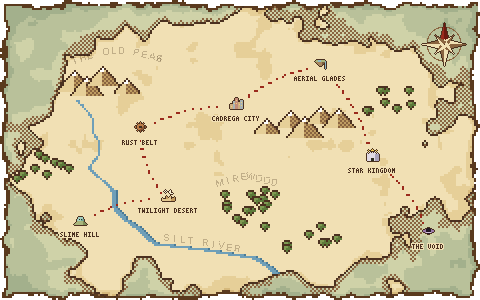
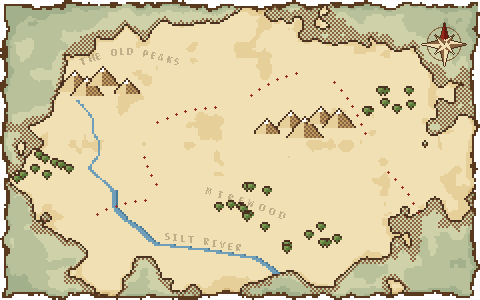
World map: unseen areas show just a ? on the open map (no fog)
The base map no longer has the landmarks or names; each area's
landmark + name is its own overlay (world_map_area_<i>.png) added only
for areas the player can see. Areas past the one ahead show an ink ?
with a paper halo. The route is drawn as even dots; the cache key
covers every world_map* asset.

diff --git a/cococap/map_runtime.py b/cococap/map_runtime.py
@@ -1,7 +1,7 @@
 """Runtime world map for the Travel page (pure Python + Pillow; no discord, no art/ imports).
 
 Reads cococap/assets/world_map.png and world_map.json (one site per area, in registry order). Areas up to the
-highest one reached are shown, the area ahead of it is revealed too, and everything beyond is fogged. A red X
+highest one reached are shown, the area ahead of it is revealed too, and everything beyond shows only a ? on the open map. A red X
 marks where the player is now.
 """
 import io
@@ -11,11 +11,10 @@ from pathlib import Path
 from PIL import Image
 
 _ASSETS = Path(__file__).resolve().parent / "assets"
-_FOG_IN = (0xE6, 0xCF, 0x98, 255)
-_FOG_EDGE = (0xD6, 0xB9, 0x7C, 255)
+_PAPER = (0xF1, 0xE0, 0xB4, 255)
 _INK = (0x4B, 0x31, 0x20, 255)
 _RED = (0xE8, 0x28, 0x1C, 255)
-_QUESTION = ["ooo", "..o", ".o.", "...", ".o."]  # stamped centred on the site
+_QUESTION = [".hhhhh.", "hoooooh", "hohhhoh", "hhh.hoh", ".hhooh.", "..hoh..", "..hhh..", "..hoh..", "..hhh.."]  # an ink ? with a paper halo
 _X = [
     "oo...oo",
     "oRo.oRo",
@@ -27,17 +26,15 @@ _X = [
 ]  # the "you are here" mark, top-left at (site x + 4, site y - 14)
 _BASE: Image.Image | None = None
 _SITES: list[tuple[int, int]] | None = None
-_FOG: tuple[float, float] = (0.0, 0.0)  # fog ellipse radii (rx, ry), from world_map.json
 _UNIT = 1  # map pixels per drawing pixel: the base map is drawn at a finer grid; marks are stamped in unit-sized blocks
 
 
 def _load() -> None:
-    global _BASE, _SITES, _FOG, _UNIT
+    global _BASE, _SITES, _UNIT
     if _BASE is None:
         _BASE = Image.open(_ASSETS / "world_map.png").convert("RGBA")
         data = json.loads((_ASSETS / "world_map.json").read_text(encoding="utf-8"))
         _SITES = [(int(x), int(y)) for x, y in data["sites"]]
-        _FOG = (float(data["fog"][0]), float(data["fog"][1]))
         _UNIT = int(data.get("unit", 1))
 
 
@@ -54,27 +51,27 @@ def _stamp(img: Image.Image, left: int, top: int, rows: list[str], pal: dict[str
                         img.putpixel((x, y), pal[ch])
 
 
-def _fog(img: Image.Image, sx: int, sy: int) -> None:
-    """A soft parchment ellipse covering the landmark and its name label (6 px below the site): solid inside,
-    checkerboard dither at the edge. The ink "?" sits at the centre."""
-    rx, ry = _FOG
+def _unknown(img: Image.Image, sx: int, sy: int) -> None:
+    """An area the player cannot see yet: the open map with just a ? where its landmark will be."""
     u = _UNIT
-    cx, cy = sx, sy + 6 * u
-    for y in range(max(0, cy - int(ry) - 1), min(img.height, cy + int(ry) + 2)):
-        for x in range(max(0, cx - int(rx) - 1), min(img.width, cx + int(rx) + 2)):
-            d = ((x - cx) / rx) ** 2 + ((y - cy) / ry) ** 2
-            if d <= 0.6:
-                img.putpixel((x, y), _FOG_IN)
-            elif d <= 1.0 and (x // u + y // u) % 2 == 0:
-                img.putpixel((x, y), _FOG_EDGE)
-    _stamp(img, cx - 1 * u, cy - 2 * u, _QUESTION, {"o": _INK})
+    _stamp(img, sx - 3 * u, sy - 10 * u, _QUESTION, {"o": _INK, "h": _PAPER})
+
+
+_OVERLAYS: list[Image.Image] = []
+
+
+def _overlay(i: int) -> Image.Image:
+    """Area i's landmark and name (a transparent layer the size of the map), loaded once."""
+    while len(_OVERLAYS) <= i:
+        _OVERLAYS.append(Image.open(_ASSETS / f"world_map_area_{len(_OVERLAYS)}.png").convert("RGBA"))
+    return _OVERLAYS[i]
 
 
 def _art_version() -> str:
     """A short fingerprint of the map art, so a redrawn map never serves stale cached images."""
     import zlib
 
-    return f"{zlib.crc32(_ASSETS.joinpath('world_map.png').read_bytes() + _ASSETS.joinpath('world_map.json').read_bytes()):08x}"
+    return f"{zlib.crc32(b''.join(f.read_bytes() for f in sorted(_ASSETS.glob('world_map*')))):08x}"
 
 
 def render_map(
@@ -101,8 +98,11 @@ def render_map(
             return path.read_bytes()
 
     img = _BASE.copy()
-    for i in range(revealed, count):
-        _fog(img, *_SITES[i])
+    for i in range(count):
+        if i < revealed:
+            img.alpha_composite(_overlay(i))
+        else:
+            _unknown(img, *_SITES[i])
     cx, cy = _SITES[current]
     _stamp(img, cx + 4 * _UNIT, cy - 14 * _UNIT, _X, {"o": _INK, "R": _RED})
     img = img.resize((img.width * scale, img.height * scale), Image.NEAREST)

diff --git a/tests/test_world_map.py b/tests/test_world_map.py
@@ -1,4 +1,4 @@
-"""The Travel page's world map: rendered per player, fogged past the area ahead, X where you are."""
+"""The Travel page's world map: rendered per player; areas past the one ahead show only a ?; X where you are."""
 import io
 import json
 
@@ -13,20 +13,13 @@ DATA = json.loads((map_runtime._ASSETS / "world_map.json").read_text(encoding="u
 W, H = DATA["size"]
 SITES = [tuple(s) for s in DATA["sites"]]
 UNIT = DATA.get("unit", 1)  # map pixels per drawing pixel
-RX, RY = DATA["fog"]
-FOG = {(0xE6, 0xCF, 0x98, 255), (0xD6, 0xB9, 0x7C, 255)}
+INK = (0x4B, 0x31, 0x20, 255)
 RED = (0xE8, 0x28, 0x1C, 255)
 SCALE = 2
 
 
 def _image(png: bytes) -> Image.Image:
     return Image.open(io.BytesIO(png)).convert("RGBA")
-
-
-def _inside_fog(site: tuple[int, int]) -> tuple[int, int]:
-    """A pixel inside the fog ellipse, clear of the ink "?" in its centre."""
-    sx, sy = site
-    return sx - RX // 2, sy + 6
 
 
 def test_render_is_a_png_at_scaled_size():
@@ -48,14 +41,28 @@ def test_x_marks_the_current_area():
     assert RED in near
 
 
-def test_areas_past_the_one_ahead_are_fogged():
-    # highest = 1: areas 0..1 are reached, area 2 is the one ahead (revealed), area 3 is fogged.
+BASE = Image.open(map_runtime._ASSETS / "world_map.png").convert("RGBA")
+
+
+def _shown(im, layer, scale):
+    """(pixels of a landmark layer that show in the render, pixels it would change on the bare map)."""
+    changes = [(x, y) for y in range(layer.height) for x in range(layer.width)
+               if layer.getpixel((x, y))[3] and BASE.getpixel((x, y)) != layer.getpixel((x, y))]
+    return sum(1 for x, y in changes if im.getpixel((x * scale, y * scale)) == layer.getpixel((x, y))), len(changes)
+
+
+def test_areas_past_the_one_ahead_show_only_a_question_mark():
+    # highest = 1: areas 0..1 are reached, area 2 is the one ahead (its landmark shows), area 3 is unknown (just a ?).
     im = _image(render_map(1, 1, scale=SCALE, cache_dir=None))
-    base = Image.open(map_runtime._ASSETS / "world_map.png").convert("RGBA")
-    ahead = _inside_fog(SITES[2])
-    beyond = _inside_fog(SITES[3])
-    assert im.getpixel((beyond[0] * SCALE, beyond[1] * SCALE)) in FOG
-    assert im.getpixel((ahead[0] * SCALE, ahead[1] * SCALE)) == base.getpixel(ahead)
+    ahead = map_runtime._overlay(2)
+    beyond = map_runtime._overlay(3)
+    shown, total = _shown(im, ahead, SCALE)
+    assert shown > 0.9 * total
+    shown, total = _shown(im, beyond, SCALE)
+    assert shown < 0.1 * total
+    sx, sy = SITES[3]
+    near = {im.getpixel((x * SCALE, y * SCALE)) for x in range(sx - 4 * UNIT, sx + 4 * UNIT) for y in range(sy - 11 * UNIT, sy)}
+    assert INK in near  # the ? is there
 
 
 def test_cache_returns_identical_bytes(tmp_path):
